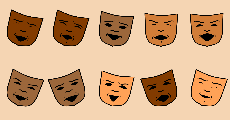
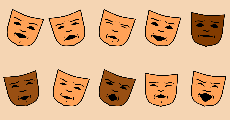
Weighted Selection (colour).

diff --git a/arrangement.js b/arrangement.js
@@ -63,7 +63,7 @@ function draw () {
         let upperLip = random(-2.5, 0);
         let lowerLip = random(-5, 0);
         let tilt_value = random(-20, 20);
-        let maskColor = int(random(0, 5));
+        // let maskColor = int(random(0, 5));
 
         // if(is_cyclops < 10) {
         //   eye_value = 1;
@@ -74,7 +74,22 @@ function draw () {
         push();
         translate(x, y);
         scale(7);
+
+        // Weighted Selection
+        let Spinner = random(0, 100);
+        let maskColor = 0;
+
+        if(Spinner > 25){
+          let maskColor = 0;
+        } 
+        else {
+          maskColor = int(random(1, 5));
+        }
+
+
         faceMask(eyeBHead, eyeBEnd, eyeInner, eyeOuter, upperEye, lowerEye, mouthWidth, mouthCorners, upperLip, lowerLip, tilt_value, maskColor);
+
+
         pop();
 
     }

diff --git a/README.md b/README.md
@@ -3,4 +3,4 @@
 ## 2023 MDDN342 Assignment 2: Randomised Collections
 **This is where you talk about your project!**
 
-Went with a 5x2 arrangement grid; decided against just 3 mask as I quite like displaying more than that at once.
+Little experiment with Weighted Selection (spinner analogy). I chose to do this with the face colour, adjusting it so theres a 75% chance of getting the lighter colour. Kind of unintentially highlights issues of racism/colourism, in terms of preferred shades [of brown]. In reality the contast of the lighter shade better shows the facial features, so I chose that one.
